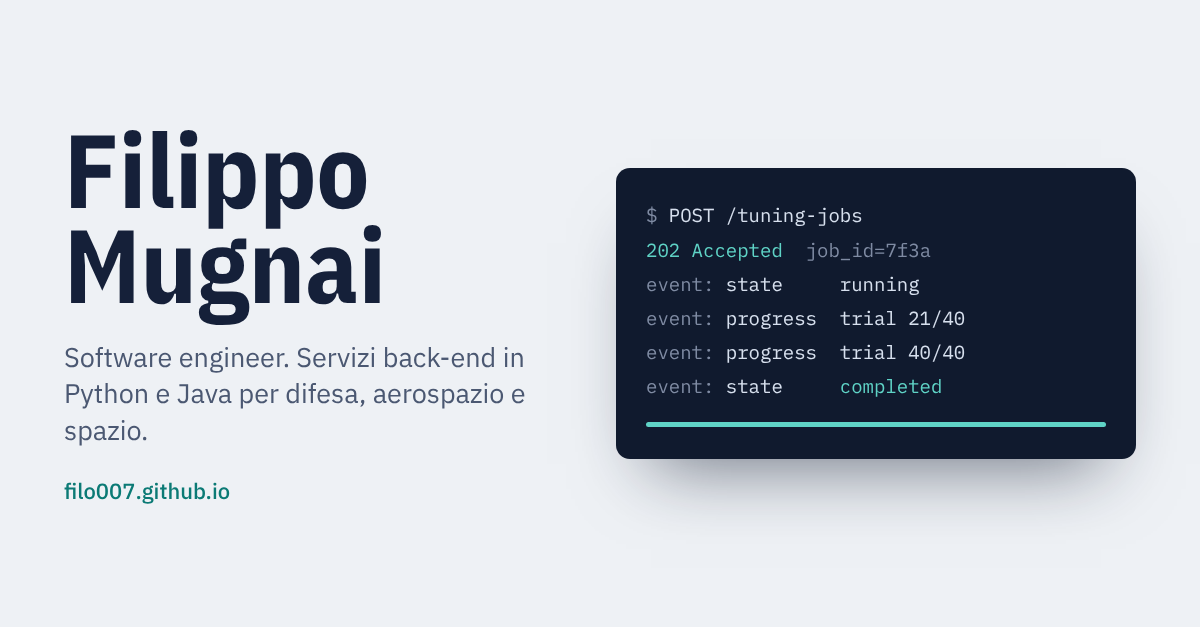
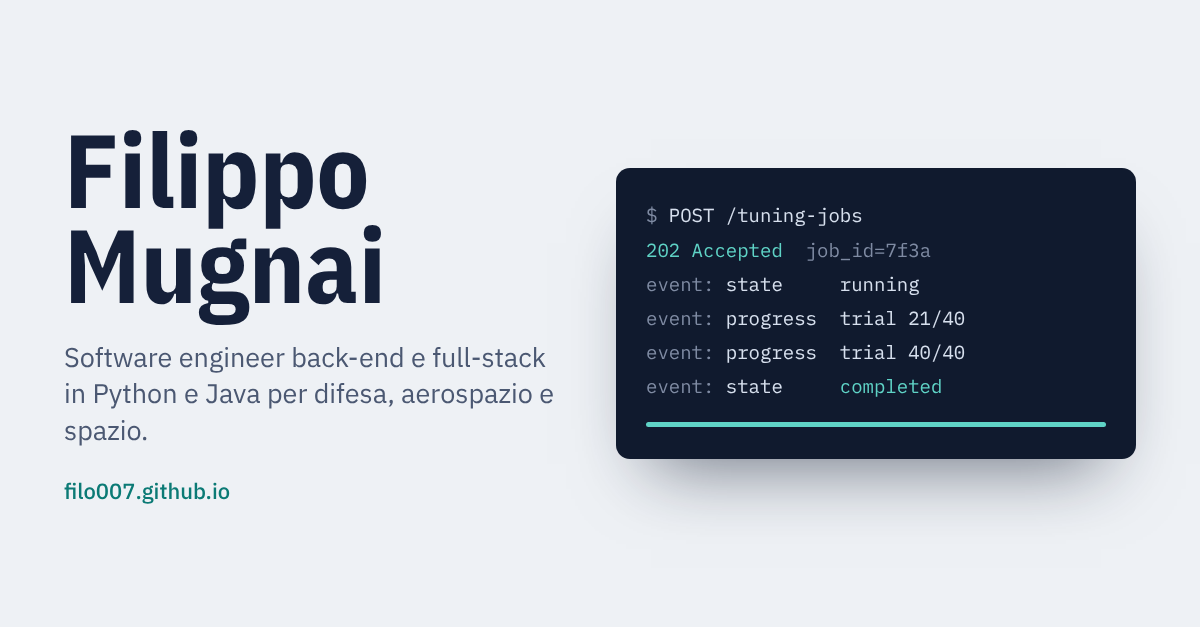
Add files via upload

Changed region(s): [[0.0617, 0.5455, 0.4625, 0.6667]]

diff --git a/index.html b/index.html
@@ -4,9 +4,9 @@
 <meta charset="UTF-8">
 <meta name="viewport" content="width=device-width, initial-scale=1">
 <title>Filippo Mugnai – Software Engineer</title>
-<meta name="description" content="Software Engineer a Roma: servizi back-end in Python e Java per difesa, aerospazio e spazio.">
+<meta name="description" content="Software Engineer a Roma: back-end e full-stack in Python e Java per difesa, aerospazio e spazio.">
 <meta property="og:title" content="Filippo Mugnai – Software Engineer">
-<meta property="og:description" content="Servizi back-end in Python e Java per difesa, aerospazio e spazio.">
+<meta property="og:description" content="Back-end e full-stack in Python e Java per difesa, aerospazio e spazio.">
 <meta property="og:type" content="website">
 <meta property="og:url" content="https://filo007.github.io/">
 <meta property="og:image" content="https://filo007.github.io/og-image.png">
@@ -160,8 +160,8 @@
 <div class="hero">
   <div>
     <h1>Filippo<br>Mugnai</h1>
-    <p class="intro" lang="it">Software engineer a Roma. Costruisco servizi back-end in Python e Java per sistemi dove un errore costa caro: difesa, aerospazio e spazio.</p>
-    <p class="intro" lang="en">Software engineer in Rome. I build Python and Java back-end services for systems where mistakes are expensive: defence, aerospace and space.</p>
+    <p class="intro" lang="it">Software engineer a Roma. Costruisco servizi back-end in Python e Java, e le interfacce che li usano, per sistemi dove un errore costa caro: difesa, aerospazio e spazio.</p>
+    <p class="intro" lang="en">Software engineer in Rome. I build Python and Java back-end services, and the interfaces that use them, for systems where mistakes are expensive: defence, aerospace and space.</p>
     <div class="actions">
       <a class="btn solid" href="CV-Filippo-Mugnai-IT.pdf" lang="it" download>Scarica il CV</a>
       <a class="btn solid" href="CV-Filippo-Mugnai-EN.pdf" lang="en" download>Download CV</a>
